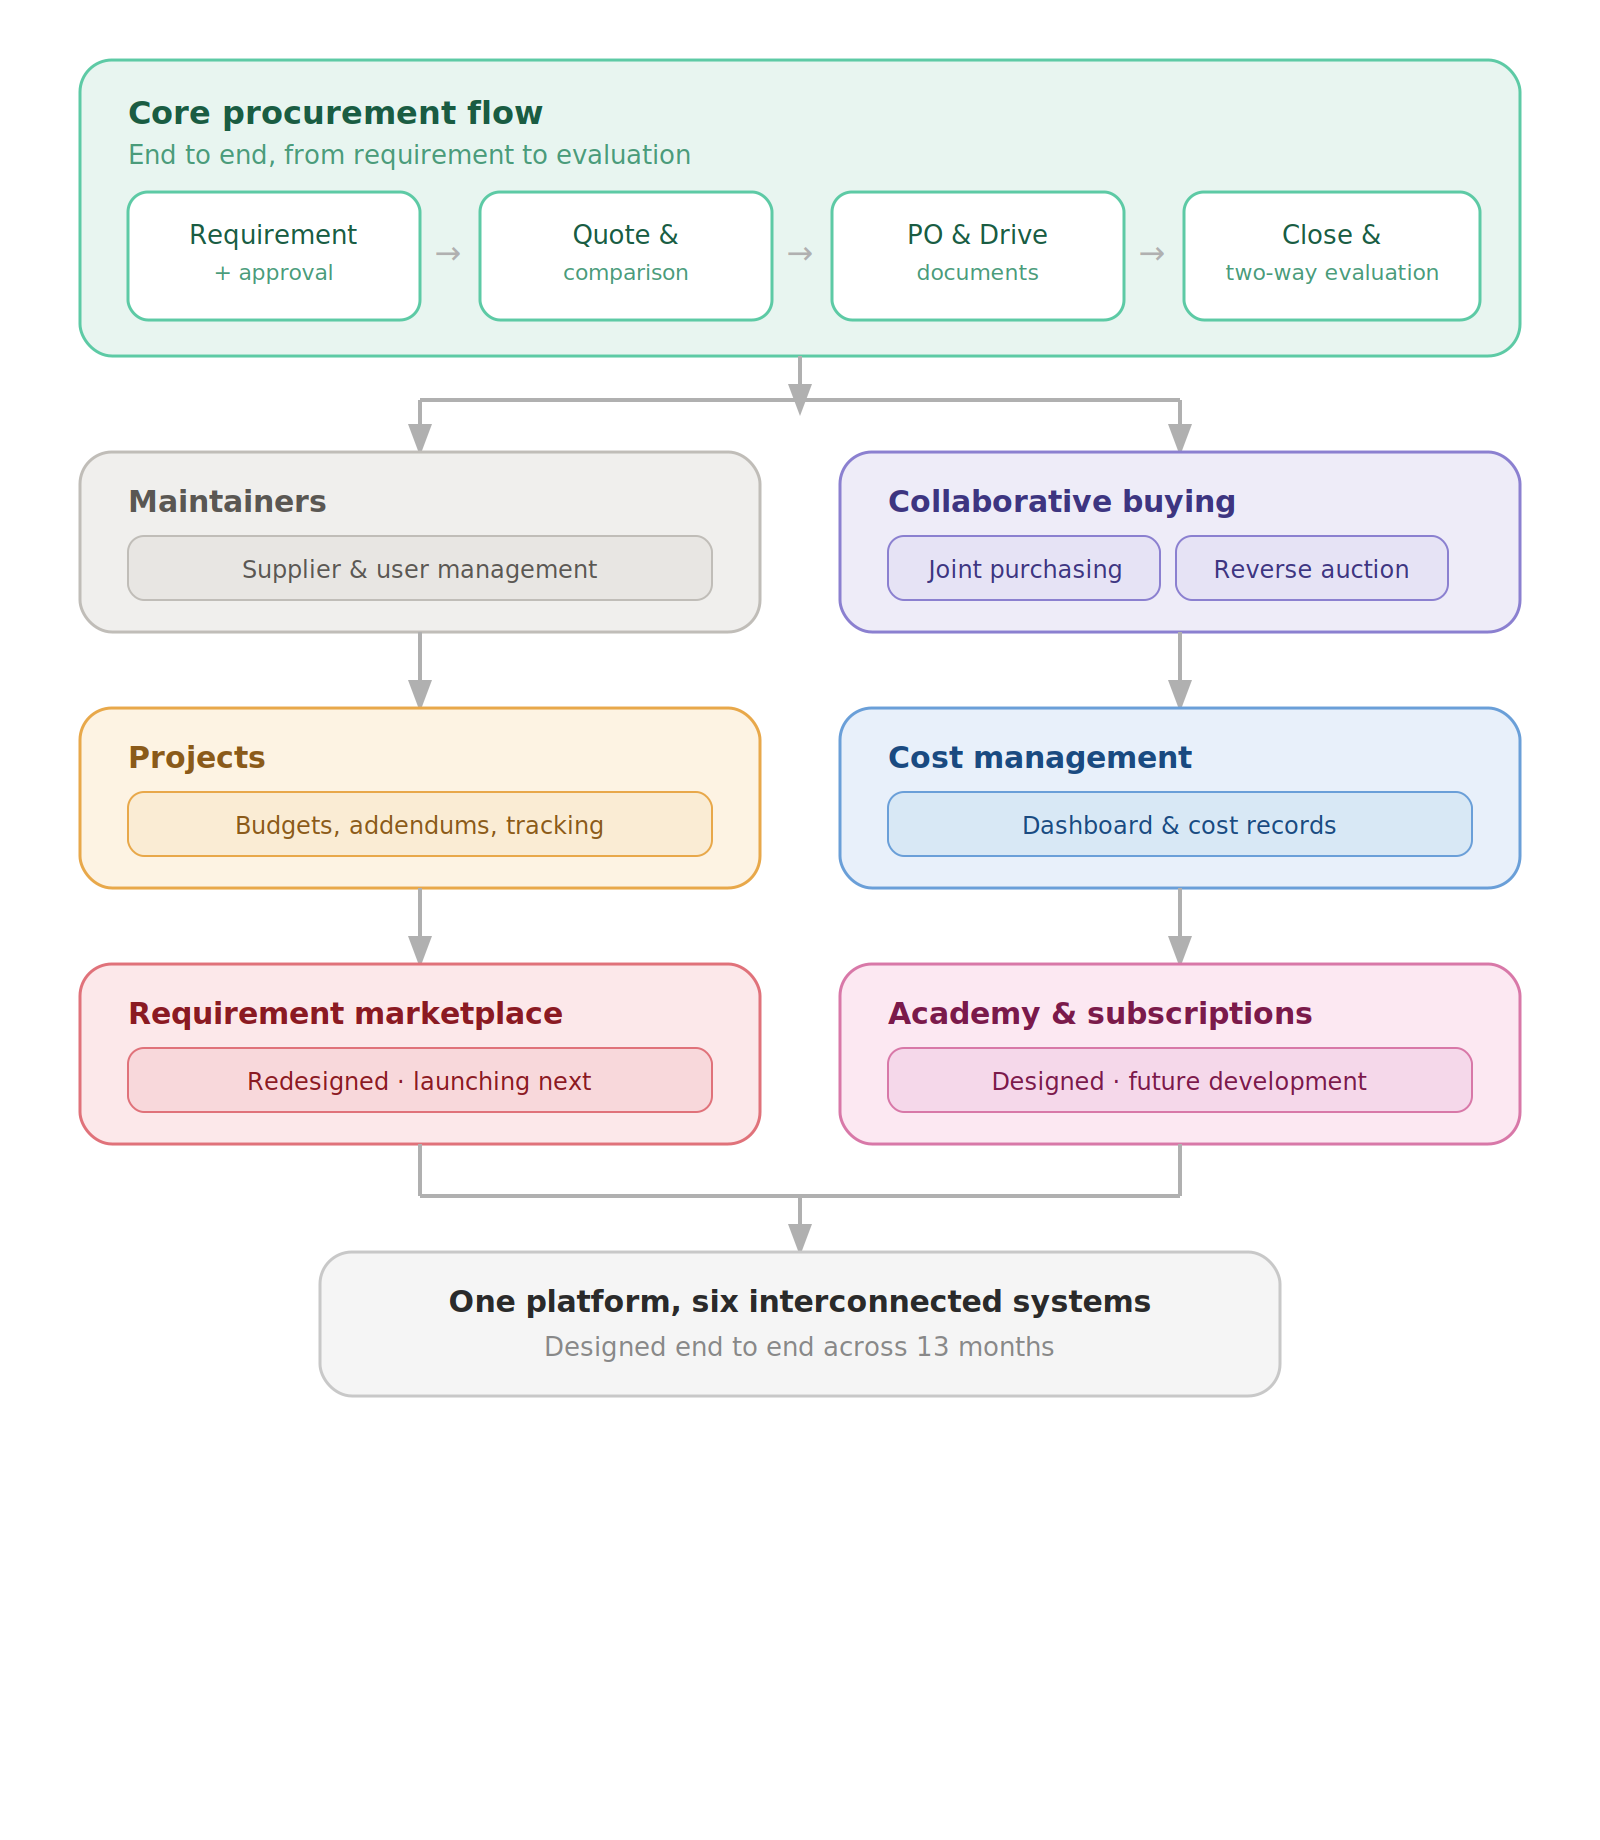
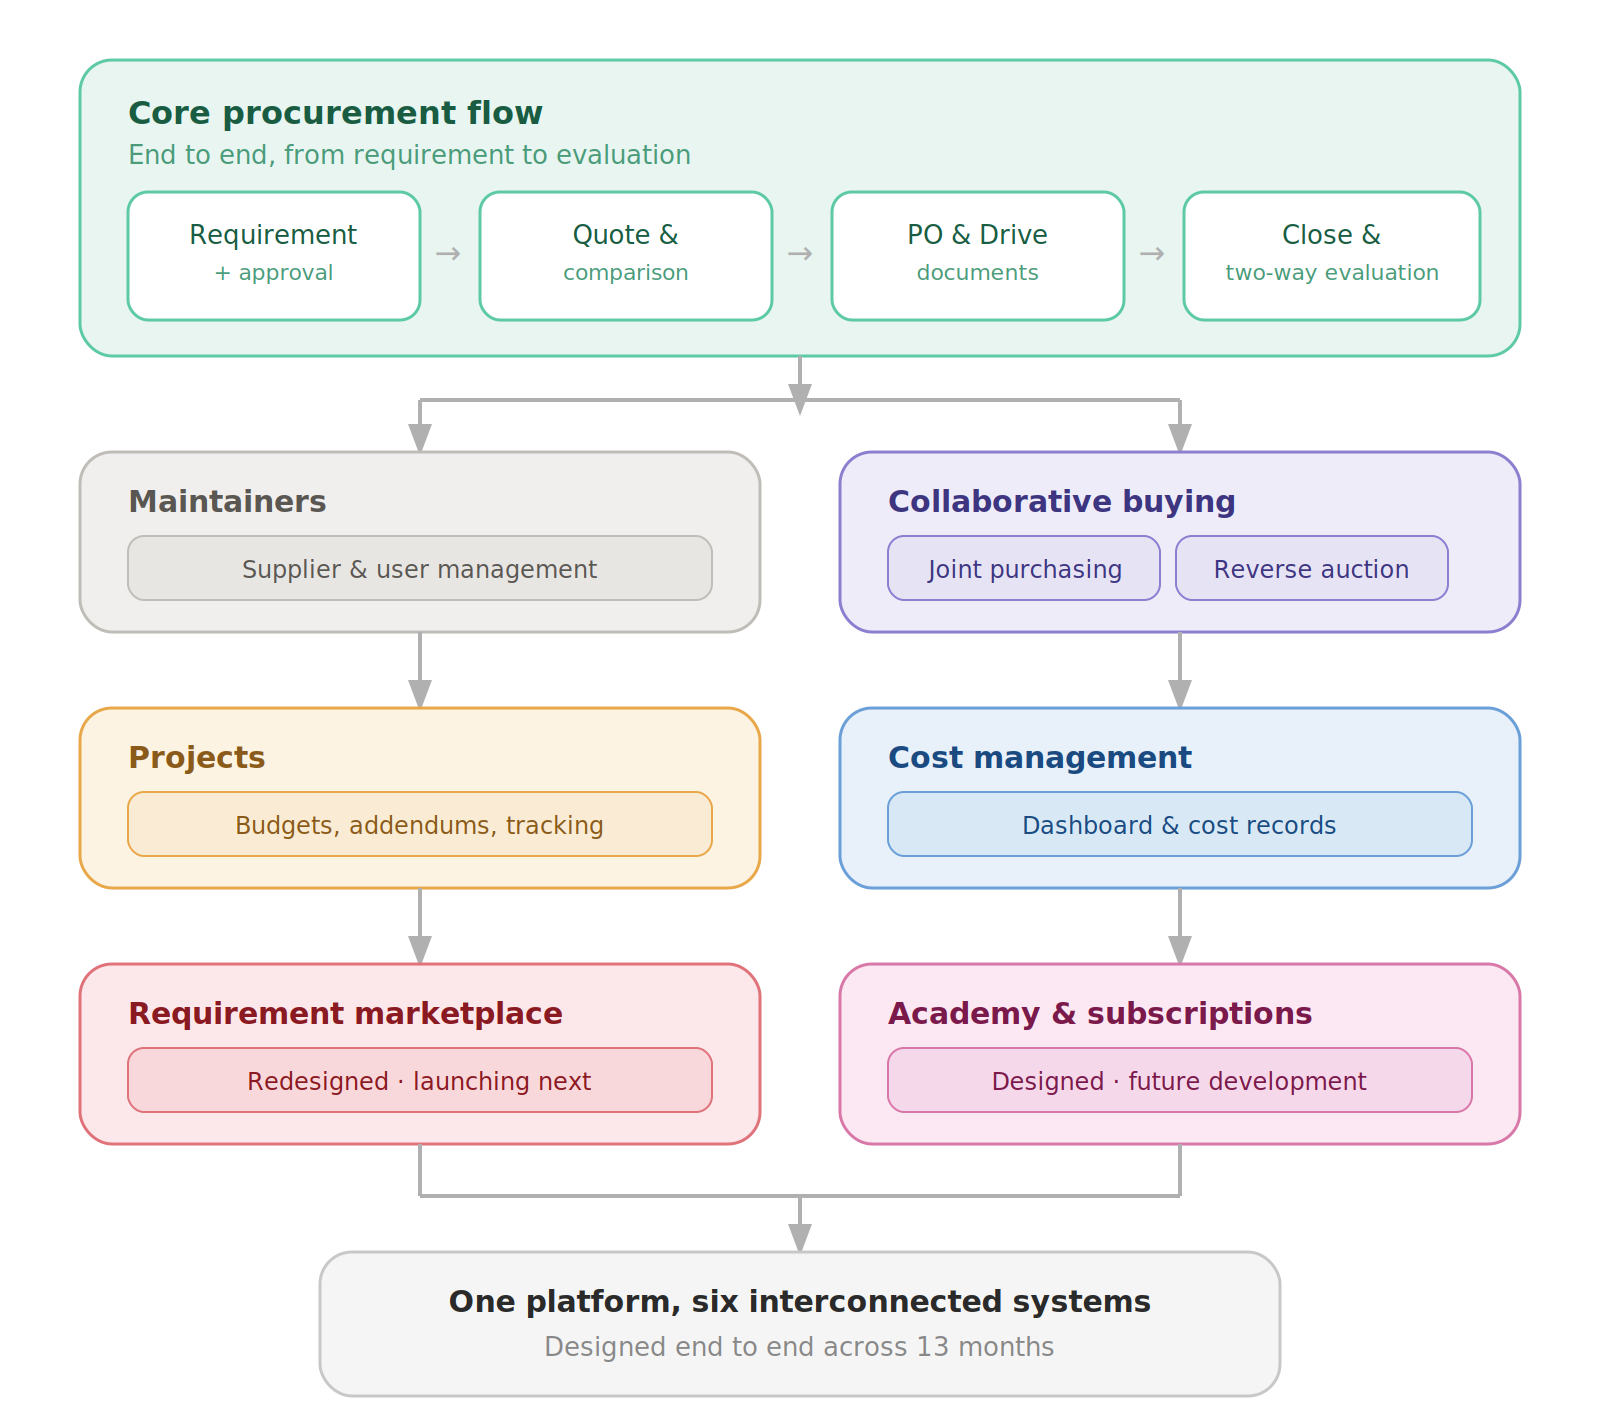
Tighten mobile case study spacing, polish Shortcat content, autoplay projects video
- Reduce vertical padding between case study sections, the disclaimer,
  and the back-to-top button on mobile so the layout feels less airy
  on small screens (tablet/desktop unchanged)
- Crop 442px of blank whitespace out of the Shortcat ecosystem map image
- Shortcat: lead the "What I designed" section with the ecosystem
  image before the intro paragraph; set the "I joined as lead
  designer..." paragraph apart in its own accented card; autoplay the
  "Projects and cost management" video on scroll instead of requiring
  a manual play tap
- JobMatch: fold the case study disclaimer into the end of "The
  challenge" section instead of standing alone above it

diff --git a/src/app/projects/shortcat/page.tsx b/src/app/projects/shortcat/page.tsx
@@ -48,7 +48,7 @@ export default function ShortcatCaseStudy() {
           <CaseStatsBand stats={STATS} iconColor={ACCENT_DARK} />
         </section>
 
-        <section className="px-6 pb-24 pt-6 md:px-10 md:pb-32 md:pt-10 lg:px-16">
+        <section className="px-6 pb-12 pt-6 md:px-10 md:pb-32 md:pt-10 lg:px-16">
           <CaseHook>
             &ldquo;An initial brief, incomplete documentation, and workflows
             that kept changing throughout execution. This is the product I
@@ -68,34 +68,39 @@ export default function ShortcatCaseStudy() {
             process, but by reimagining it: turning individual purchasing
             decisions into collective purchasing power.
           </p>
-          <p>
-            I joined as lead designer with a high-level vision already
-            documented. The flows needed adjustments from day one — and kept
-            evolving throughout the entire design process. My role wasn&apos;t
-            just to design screens — it was to facilitate the conversations
-            that turned business ideas into documented flows, and documented
-            flows into a real product.
-          </p>
+          <div
+            className="rounded-2xl border-l-4 bg-ink/5 px-6 py-5"
+            style={{ borderColor: ACCENT }}
+          >
+            <p>
+              I joined as lead designer with a high-level vision already
+              documented. The flows needed adjustments from day one — and
+              kept evolving throughout the entire design process. My role
+              wasn&apos;t just to design screens — it was to facilitate the
+              conversations that turned business ideas into documented
+              flows, and documented flows into a real product.
+            </p>
+          </div>
         </CaseSection>
 
         <CaseSection title="What I designed" accentColor={ACCENT}>
+          <div className="overflow-hidden rounded-2xl border border-ink/10 bg-white">
+            <Image
+              src="/images/shortcat-ecosystem-map.png"
+              alt="Shortcat product ecosystem — six interconnected systems"
+              width={1600}
+              height={1421}
+              className="h-auto w-full"
+              sizes="(min-width: 1024px) 813px, 100vw"
+            />
+          </div>
+
           <p>
             I built an ERP with six interconnected systems covering the full
             procurement management cycle, focused primarily on the
             construction sector — with an architecture designed to expand
             into other sectors in the future.
           </p>
-
-          <div className="overflow-hidden rounded-2xl border border-ink/10 bg-white">
-            <Image
-              src="/images/shortcat-ecosystem-map.png"
-              alt="Shortcat product ecosystem — six interconnected systems"
-              width={1600}
-              height={1840}
-              className="h-auto w-full"
-              sizes="(min-width: 1024px) 813px, 100vw"
-            />
-          </div>
 
           <h3
             className="mt-4 font-display text-2xl font-semibold"
@@ -199,6 +204,7 @@ export default function ShortcatCaseStudy() {
           <LightboxVideo
             src="/images/shortcat-projects-cost-management.mp4"
             caption="Projects module and cost dashboard."
+            autoPlayOnView
           />
 
           <h3

diff --git a/src/app/projects/jobmatch/page.tsx b/src/app/projects/jobmatch/page.tsx
@@ -67,18 +67,12 @@ export default function JobMatchCaseStudy() {
           <CaseStatsBand stats={STATS} iconColor={PRIMARY} />
         </section>
 
-        <section className="px-6 pb-24 pt-6 md:px-10 md:pb-32 md:pt-10 lg:px-16">
+        <section className="px-6 pb-12 pt-6 md:px-10 md:pb-32 md:pt-10 lg:px-16">
           <CaseHook>
             &ldquo;What if finding a job were as easy as swiping on Tinder?
             That&apos;s Jobmatch — and this is how I designed it.&rdquo;
           </CaseHook>
         </section>
-
-        <CaseDisclaimer accentColor={PRIMARY}>
-          This case study reflects the product and flows designed during my
-          involvement in the project. Some interfaces and user flows may have
-          evolved or been modified during development after my participation.
-        </CaseDisclaimer>
 
         <CaseSection title="The challenge" accentColor={PRIMARY}>
           <p>
@@ -97,6 +91,13 @@ export default function JobMatchCaseStudy() {
             designing a single ecosystem that served all three without
             adding complexity or sacrificing anyone&apos;s experience.
           </p>
+
+          <CaseDisclaimer accentColor={PRIMARY}>
+            This case study reflects the product and flows designed during my
+            involvement in the project. Some interfaces and user flows may
+            have evolved or been modified during development after my
+            participation.
+          </CaseDisclaimer>
         </CaseSection>
 
         <CaseSection title="The value proposition" accentColor={PRIMARY}>

diff --git a/src/components/case-study/case-disclaimer.tsx b/src/components/case-study/case-disclaimer.tsx
@@ -8,23 +8,21 @@ export function CaseDisclaimer({
   children: React.ReactNode;
 }) {
   return (
-    <section className="px-6 pb-14 md:px-10 lg:px-16">
-      <div
-        className="mx-auto flex max-w-7xl gap-4 rounded-2xl border-l-4 bg-ink/5 px-6 py-5 font-sans text-ink"
-        style={{ borderColor: accentColor }}
-      >
-        <Info
-          className="mt-0.5 h-5 w-5 shrink-0"
-          style={{ color: accentColor }}
-          strokeWidth={1.5}
-        />
-        <div className="flex flex-col gap-1">
-          <p className="font-display font-semibold" style={{ color: accentColor }}>
-            A note on the case study
-          </p>
-          <p className="leading-relaxed text-ink-soft">{children}</p>
-        </div>
+    <div
+      className="flex gap-4 rounded-2xl border-l-4 bg-ink/5 px-6 py-5 font-sans text-ink"
+      style={{ borderColor: accentColor }}
+    >
+      <Info
+        className="mt-0.5 h-5 w-5 shrink-0"
+        style={{ color: accentColor }}
+        strokeWidth={1.5}
+      />
+      <div className="flex flex-col gap-1">
+        <p className="font-display font-semibold" style={{ color: accentColor }}>
+          A note on the case study
+        </p>
+        <p className="leading-relaxed text-ink-soft">{children}</p>
       </div>
-    </section>
+    </div>
   );
 }

diff --git a/src/components/case-study/case-section.tsx b/src/components/case-study/case-section.tsx
@@ -8,7 +8,7 @@ export function CaseSection({
   children: React.ReactNode;
 }) {
   return (
-    <section className="px-6 py-14 md:px-10 lg:px-16">
+    <section className="px-6 py-8 md:px-10 md:py-14 lg:px-16">
       <div className="mx-auto grid max-w-7xl grid-cols-1 gap-10 md:grid-cols-[380px_1fr] md:gap-16">
         <h2
           className="font-display text-4xl font-bold lg:text-5xl"

diff --git a/src/components/case-study/back-to-top-button.tsx b/src/components/case-study/back-to-top-button.tsx
@@ -16,7 +16,7 @@ export function BackToTopButton({
 
   return (
     <section
-      className={`px-6 py-16 md:px-10 md:py-20 lg:px-16 ${className ?? ""}`}
+      className={`px-6 py-8 md:px-10 md:py-20 lg:px-16 ${className ?? ""}`}
     >
       <FadeUp className="mx-auto flex max-w-7xl justify-end">
         <button
